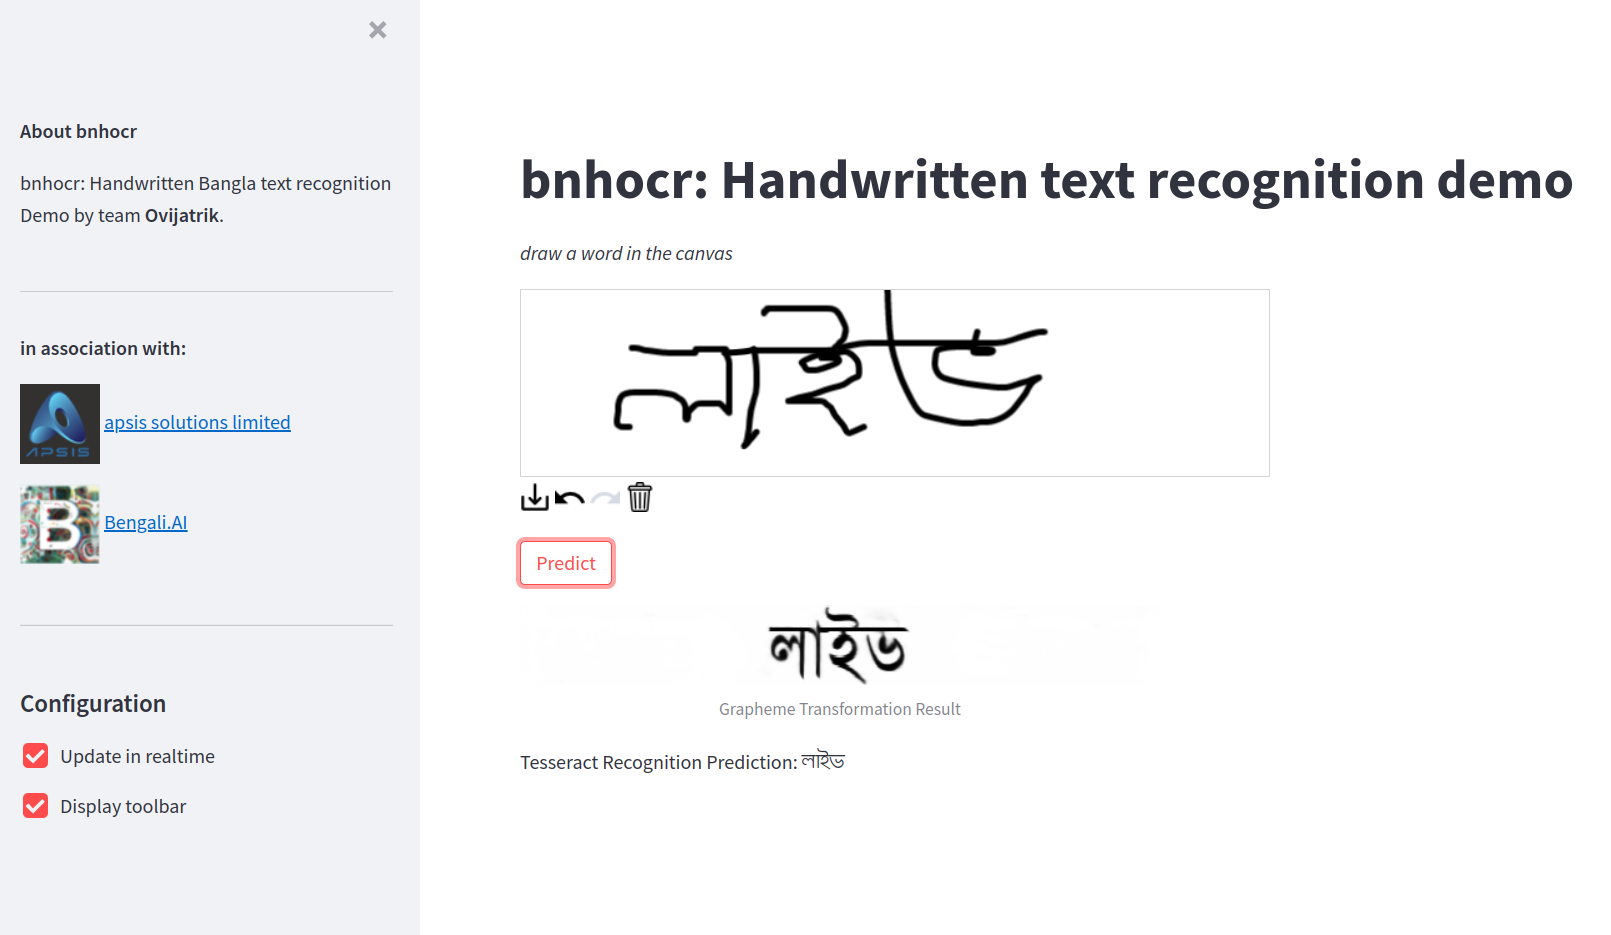
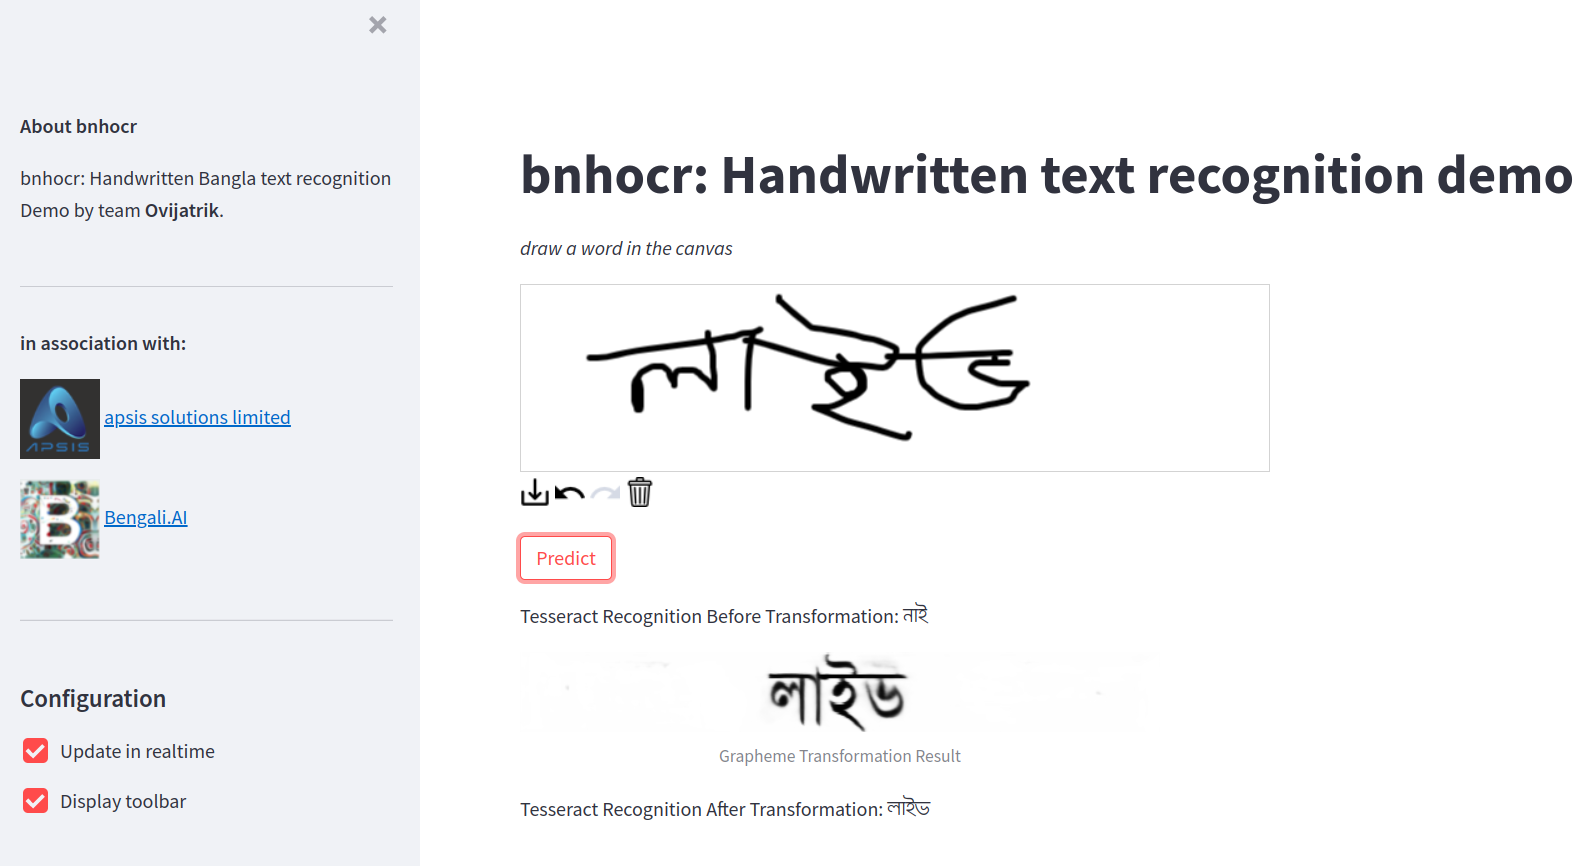
compare tesseract

diff --git a/app.py b/app.py
@@ -18,6 +18,7 @@ from streamlit_drawable_canvas import st_canvas
 import base64
 import numpy as np
 import cv2
+import pytesseract
 #-------------------------------------------
 # using gpu
 #--------------------------------------------
@@ -76,9 +77,11 @@ def main():
             with st.spinner('Analyzing...'):
                 img=np.asarray(canvas_result.image_data).astype(np.uint8)
                 img=cv2.cvtColor(img,cv2.COLOR_BGR2GRAY)
+                res = pytesseract.image_to_string(img, lang='ben', config='--psm 6')
+                st.write(f"Tesseract Recognition Before Transformation:",res.split("\n")[0])
                 text,img=ocr.infer(img)
                 st.image(img,caption="Grapheme Transformation Result")
-                st.write(f"Tesseract Recognition Prediction:",text)
+                st.write(f"Tesseract Recognition After Transformation:",text)
                 
         else:
             st.write("Please Draw a word first!!!")
